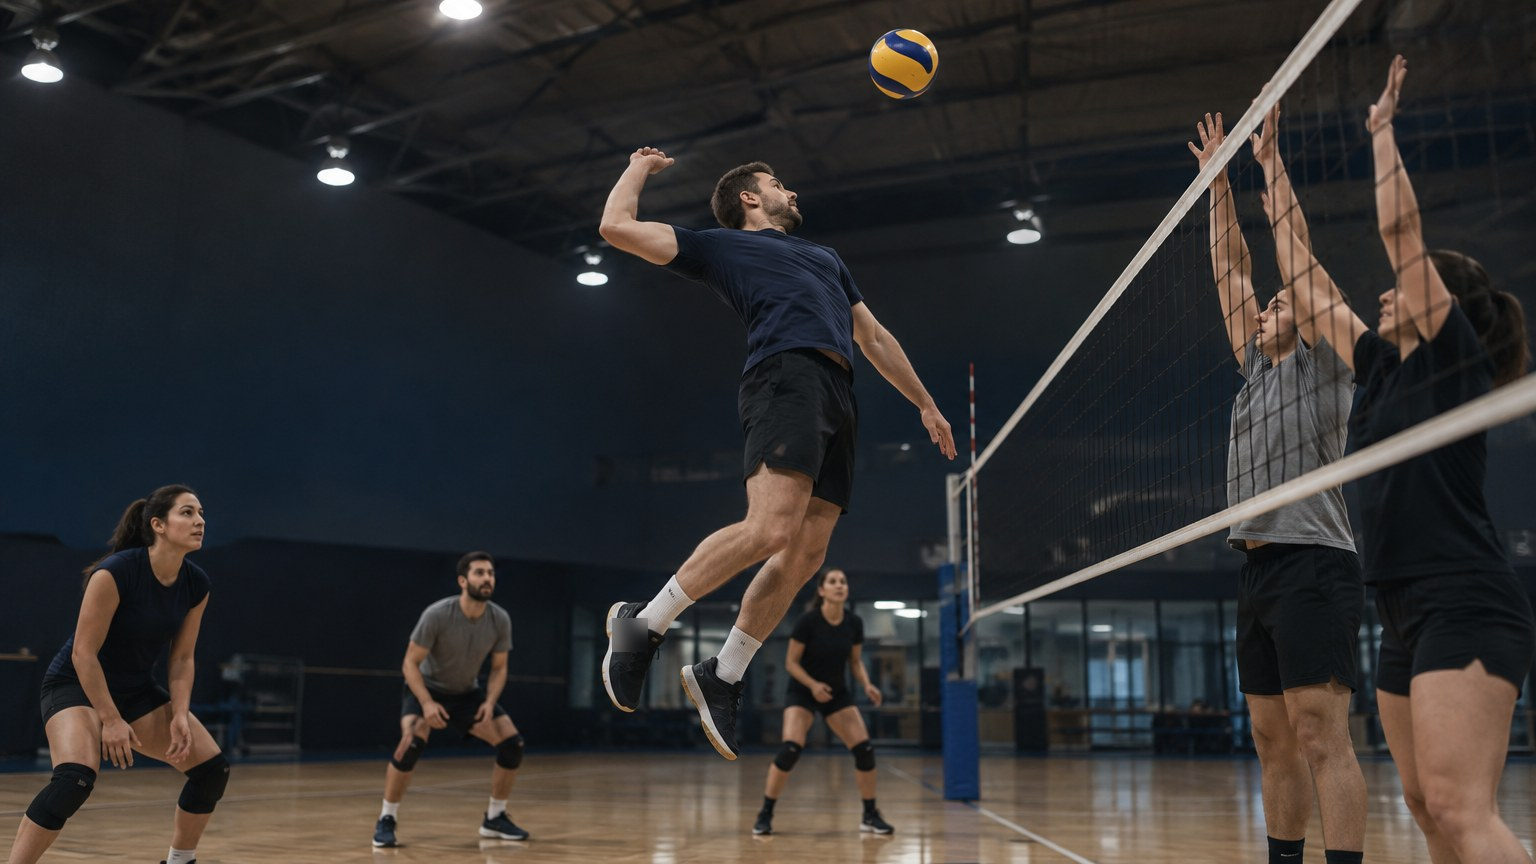
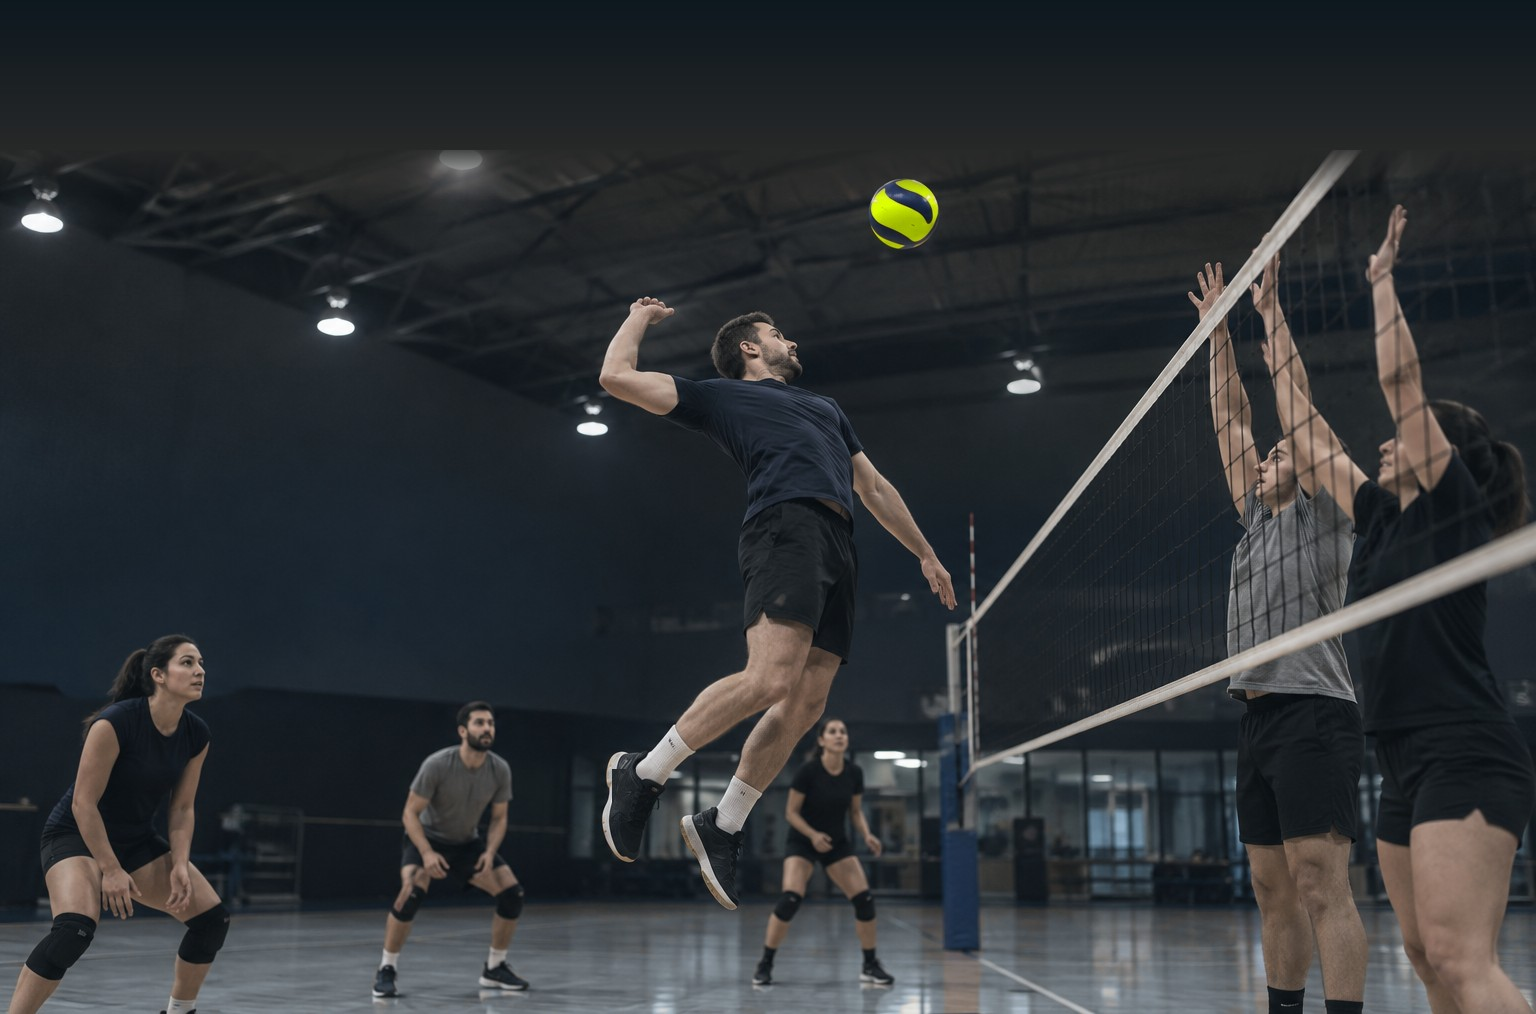
Hero photo in the brand colours: navy shadows, lime ball, cool court
The photo is graded toward Midnight Navy and Cloud White, the ball's yellow
panels are Electric Lime, and the orange wooden floor is a cool court tone
(skin tones kept). The frame gets headroom so the ball clears the site header
instead of hiding behind it. The grade is reproducible:
scripts/grade-hero-photo.py.

Claude-Session: https://claude.ai/code/session_01M3nzie131CXDQtmL21Agmr

diff --git a/app/page.tsx b/app/page.tsx
@@ -140,7 +140,8 @@ export default async function LandingPage() {
         eyebrow, "Play volleyball. Anytime. Anywhere.", one sentence, one action. A dark island (`theme-dark`), so
         `text-bone` is Cloud White and `text-accent` is lime here. The photo is a volleyball spike at the net
         (owner, 17 Nov 2026: "an action volleyball play", in place of the hall photo that read as a basketball court),
-        generated for Playco, so it needs no credit line. A background video may replace it later (TODO.md).
+        generated for Playco, so it needs no credit line, and graded into the brand colours (navy shadows, lime ball, cool
+        court; `scripts/grade-hero-photo.py`). A background video may replace it later (TODO.md).
       */}
       <section data-testid="home-hero" className="theme-dark relative isolate overflow-hidden">
         <Image

diff --git a/scripts/grade-hero-photo.py b/scripts/grade-hero-photo.py
@@ -1,0 +1,80 @@
+# One-off: grades the generated hero photo into the brand colours (Midnight Navy shadows, Electric Lime ball,
+# cool court instead of orange wood) and adds headroom. Usage: python3 scripts/grade-hero-photo.py <source.png> public/hero-default.jpg
+
+import sys, colorsys
+import numpy as np
+from PIL import Image, ImageFilter
+
+src, out = sys.argv[1], sys.argv[2]
+im = Image.open(src).convert("RGB")
+# the brand-like mark on the left shoe: its light pixels take the shoe's own dark fabric
+_a = np.asarray(im).copy()
+_x0, _y0, _x1, _y1 = 612, 619, 636, 655
+_p = _a[_y0:_y1, _x0:_x1].astype(np.float32)
+_l = _p.mean(axis=2)
+_dark = np.median(_p[_l < 60], axis=0)
+_m = Image.fromarray(((_l > 78) * 255).astype(np.uint8)).filter(ImageFilter.MaxFilter(3)).filter(ImageFilter.GaussianBlur(0.8))
+_m = (np.asarray(_m).astype(np.float32) / 255.0)[..., None]
+_rng = np.random.default_rng(7)
+_fill = _dark + _rng.normal(0, 3.0, _p.shape)
+_a[_y0:_y1, _x0:_x1] = np.clip(_p * (1 - _m) + _fill * _m, 0, 255).astype(np.uint8)
+im = Image.fromarray(_a)
+
+a = np.asarray(im).astype(np.float32) / 255.0
+h, w, _ = a.shape
+hsv = np.asarray(im.convert("HSV")).astype(np.float32)
+H, S, V = hsv[..., 0] * 360 / 255, hsv[..., 1] / 255, hsv[..., 2] / 255
+yy, xx = np.mgrid[0:h, 0:w]
+
+NAVY = np.array([0x10, 0x2C, 0x40]) / 255.0
+LIME = np.array([0xDB, 0xFF, 0x00]) / 255.0
+LIME_H = colorsys.rgb_to_hsv(*LIME)[0] * 360
+
+def soft(mask, r):
+    return np.asarray(Image.fromarray((mask * 255).astype(np.uint8)).filter(ImageFilter.GaussianBlur(r))).astype(np.float32) / 255.0
+
+# 1. the ball: yellow panels -> Electric Lime
+ball = ((xx - 903) ** 2 + (yy - 63) ** 2 < 46 ** 2) & (H > 30) & (H < 75) & (S > 0.35)
+ballm = soft(ball, 1.2)
+
+# 2. the wooden floor: warm orange -> cool pale court
+# (wood is hue 27-33; skin is 18-26, so the hue ramp keeps legs out of it)
+floor = (yy > 742) * np.clip((H - 26.0) / 1.5, 0, 1) * (H < 50) * (S > 0.08)
+floorm = soft(floor, 1.5) * np.clip((yy - 742) / 30.0, 0, 1)
+
+lum = (0.2126 * a[..., 0] + 0.7152 * a[..., 1] + 0.0722 * a[..., 2])[..., None]
+
+res = a.copy()
+# floor: luminance carried on a cool navy-grey
+cool = lum * np.array([0.80, 0.92, 1.02]) * 1.05
+res = res * (1 - floorm[..., None] * 0.85) + cool * (floorm[..., None] * 0.85)
+
+# 3. whole frame: a navy duotone under the photo (shadows to Midnight Navy, lights to Cloud White)
+CLOUD = np.array([0xF7, 0xFA, 0xFC]) / 255.0
+duo = NAVY * 0.35 + (CLOUD - NAVY * 0.35) * np.clip(lum * 1.08, 0, 1)
+shadow_w = np.clip(1.0 - lum * 1.6, 0, 1)            # strongest in the shadows
+res = res * (1 - 0.22 - 0.25 * shadow_w) + duo * (0.22 + 0.25 * shadow_w)
+
+# ball last, so the lime stays pure
+ball_rgb = LIME * np.clip(lum * 1.55, 0, 1)
+res = res * (1 - ballm[..., None]) + ball_rgb * ballm[..., None]
+
+# 4. headroom: the site header covers the top of the hero, and the ball is at the very top of the frame.
+#    The dark ceiling is continued upwards and faded to navy, so the ball clears the header.
+HEADROOM = 150
+graded = Image.fromarray((np.clip(res, 0, 1) * 255).astype(np.uint8))
+# (one flat ceiling tone, fading to navy: stretching or mirroring the top rows repeats the lamps and the ball)
+ga = np.asarray(graded).astype(np.float32) / 255.0
+tone = np.median(ga[:40].reshape(-1, 3), axis=0)
+fade = np.linspace(0.2, 1.0, HEADROOM)[:, None, None]
+sa = np.broadcast_to(tone * fade + (NAVY * 0.45) * (1 - fade), (HEADROOM, w, 3))
+# feather the join: the photo's first rows ease out of the flat tone
+SEAM = 48
+ease = np.linspace(0.85, 0.0, SEAM)[:, None, None]
+ga[:SEAM] = ga[:SEAM] * (1 - ease) + tone * ease
+graded = Image.fromarray((np.clip(ga, 0, 1) * 255).astype(np.uint8))
+canvas = Image.new("RGB", (w, h + HEADROOM))
+canvas.paste(Image.fromarray((np.clip(sa, 0, 1) * 255).astype(np.uint8)), (0, 0))
+canvas.paste(graded, (0, HEADROOM))
+canvas.save(out, quality=90, optimize=True, progressive=True)
+print("saved", out)

diff --git a/TODO.md b/TODO.md
@@ -32,7 +32,7 @@ Items 1 and 4 block today's preview (Phase F of `docs/EXECUTION_PLAN.md`). Nothi
 |---|---|---|
 | 13 | **Terms, privacy and cookies texts — reviewed with your lawyer** (the agent does not draft them). The seller named must be the Stripe account owner | before live payments |
 | 14 | A Thai speaker to review the translation (`lib/i18n/th.ts`, marked as machine translation) — site and emails | before launch |
-| 18 | **Your own hero photo or video** for the home page (today an AI-generated volleyball spike, `public/hero-default.jpg`, 1536×864) and a default court photo (`public/venue-default.jpg` is a generated navy court motif) | before launch |
+| 18 | **Your own hero photo or video** for the home page (today an AI-generated volleyball spike, `public/hero-default.jpg`, 1536×1014) and a default court photo (`public/venue-default.jpg` is a generated navy court motif) | before launch |
 | 19 | **Venue photos**: upload in Admin → Venues → edit (the card falls back to the navy court motif without one) | before launch |
 | 15 | Prices, venues, venue costs, organisers, the Bangkok deal — entered in the admin panel | Phase 12 |
 | 16 | A written city-manager agreement (profit share, who owns the players, what needs your approval, how it ends) | before the second city |
